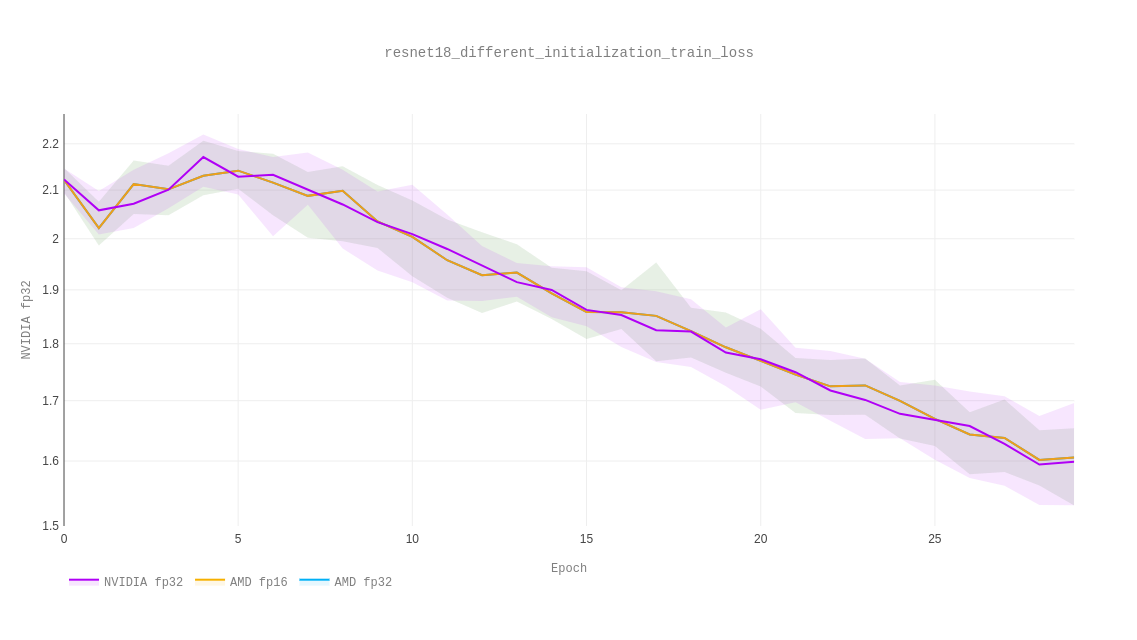
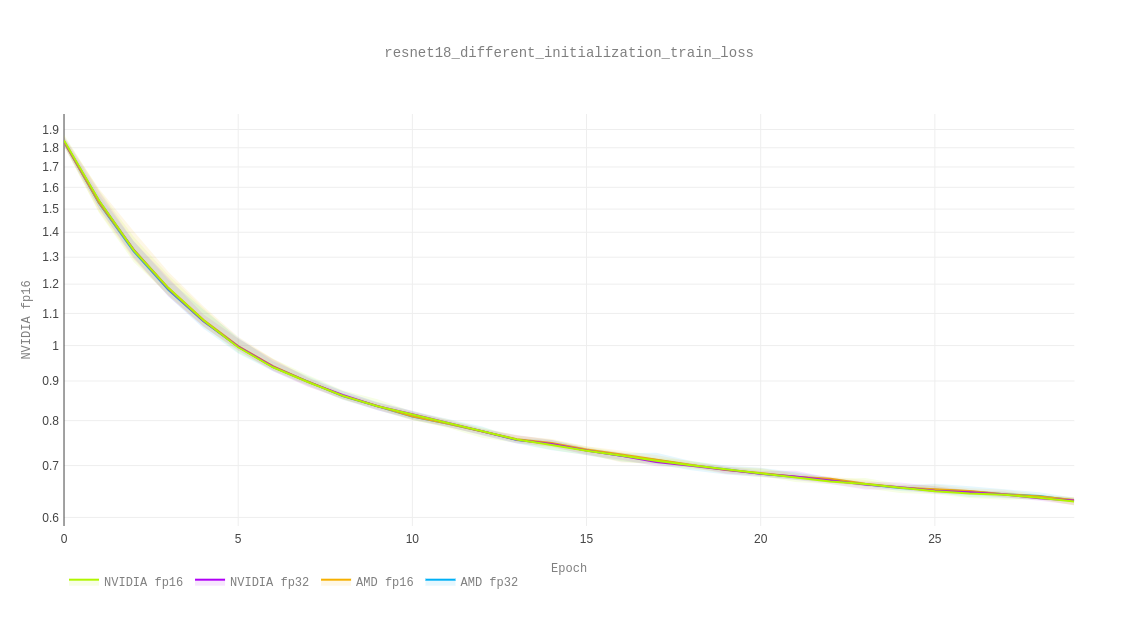
finished graph

diff --git a/reproducibility/plot.py b/reproducibility/plot.py
@@ -5,6 +5,9 @@ import plotly.figure_factory as ff
 import plotly.graph_objs as go
 import plotly.io as pio
 from typing import List
+from plotly import tools
+import plotly.plotly as py
+
 from track.persistence.storage import LocalStorage, load_database
 
 
@@ -149,86 +152,87 @@ color_palette = [
     (256, 0, 176),   # 5
 ]
 
-metric = 'test_acc'
 
-for m, name in [('test_acc', 'Test Accuracy'), ('train_loss', 'Train Loss'), ('test_loss', 'Test Loss')]:
+def convnet():
+    for m, name in [('test_acc', 'Test Accuracy'), ('train_loss', 'Train Loss'), ('test_loss', 'Test Loss')]:
 
-    curves_2 = []
-    files = [
-        (f'{BASE}/results/amd_2.json', f'AMD fp32'),
-        (f'{BASE}/results/amd_fp16_2.json', f'AMD fp16'),
-        (f'{BASE}/results/cpu_2.json', f'CPU fp32'),
-        (f'{BASE}/results/nvidia_2.json', f'NVIDIA fp32'),
-        (f'{BASE}/results/nvidia_p100_fp16_2.json', f'NVIDIA fp16')
-    ]
+        curves_2 = []
+        files = [
+            (f'{BASE}/results/amd_2.json', f'AMD fp32'),
+            (f'{BASE}/results/amd_fp16_2.json', f'AMD fp16'),
+            (f'{BASE}/results/cpu_2.json', f'CPU fp32'),
+            (f'{BASE}/results/nvidia_2.json', f'NVIDIA fp32'),
+            (f'{BASE}/results/nvidia_p100_fp16_2.json', f'NVIDIA fp16')
+        ]
 
-    for i, (file, name) in enumerate(files):
-        curves_2.append(get_curve_with_error(file, name, m, color_palette[i]))
+        for i, (file, name) in enumerate(files):
+            curves_2.append(get_curve_with_error(file, name, m, color_palette[i]))
 
-    plot_lines(
-        curves_2,
-        graph_name=f'different_initialization_{m}',
-        y_name=name,
-        folder=f'{BASE}/graphs'
-    )
+        plot_lines(
+            curves_2,
+            graph_name=f'different_initialization_{m}',
+            y_name=name,
+            folder=f'{BASE}/graphs'
+        )
 
-    curves_1 = []
-    files = [
-        (f'{BASE}/results/amd_1.json', f'AMD fp32'),
-        (f'{BASE}/results/amd_fp16_1.json', f'AMD fp16'),
-        (f'{BASE}/results/cpu_1.json', f'CPU fp32'),
-        (f'{BASE}/results/nvidia_1.json', f'NVIDIA fp32'),
-        (f'{BASE}/results/nvidia_p100_fp16_1.json', f'NVIDIA fp16')
-    ]
+        curves_1 = []
+        files = [
+            (f'{BASE}/results/amd_1.json', f'AMD fp32'),
+            (f'{BASE}/results/amd_fp16_1.json', f'AMD fp16'),
+            (f'{BASE}/results/cpu_1.json', f'CPU fp32'),
+            (f'{BASE}/results/nvidia_1.json', f'NVIDIA fp32'),
+            (f'{BASE}/results/nvidia_p100_fp16_1.json', f'NVIDIA fp16')
+        ]
 
-    for i, (file, name) in enumerate(files):
-        curves_1.append(get_curve_with_error(file, name, m, color_palette[i]))
+        for i, (file, name) in enumerate(files):
+            curves_1.append(get_curve_with_error(file, name, m, color_palette[i]))
 
-    plot_lines(
-        curves_1,
-        graph_name=f'same_initialization_{m}',
-        y_name=name,
-        folder=f'{BASE}/graphs'
-    )
-
-
-for m, name in [('test_acc', 'Test Accuracy'), ('train_loss', 'Train Loss'), ('test_loss', 'Test Loss')]:
-
-    curves_2 = []
-    files = [
-        (f'{BASE}/results/resnet18_amd_2.json', f'AMD fp32'),
-        (f'{BASE}/results/resnet18_amd_2.json', f'AMD fp16'),
-        (f'{BASE}/results/resnet18_nvidia_2.json', f'NVIDIA fp32'),
-        # (f'{BASE}/results/nvidia_p100_fp16_2.json', f'NVIDIA fp16')
-    ]
-
-    for i, (file, name) in enumerate(files):
-        curves_2.append(get_curve_with_error(file, name, m, color_palette[i]))
-
-    plot_lines(
-        curves_2,
-        graph_name=f'resnet18_different_initialization_{m}',
-        y_name=name,
-        folder=f'{BASE}/graphs'
-    )
-
-    curves_1 = []
-    files = [
-        (f'{BASE}/results/resnet18_amd_1.json', f'AMD fp32'),
-        (f'{BASE}/results/resnet18_amd_fp16_1.json', f'AMD fp16'),
-        (f'{BASE}/results/resnet18_nvidia_1.json', f'NVIDIA fp32'),
-        (f'{BASE}/results/resnet18_nvidia_fp16_1.json', f'NVIDIA fp16')
-    ]
-
-    for i, (file, name) in enumerate(files):
-        curves_1.append(get_curve_with_error(file, name, m, color_palette[i]))
-
-    plot_lines(
-        curves_1,
-        graph_name=f'resnet18_same_initialization_{m}',
-        y_name=name,
-        folder=f'{BASE}/graphs'
-    )
+        plot_lines(
+            curves_1,
+            graph_name=f'same_initialization_{m}',
+            y_name=name,
+            folder=f'{BASE}/graphs'
+        )
 
 
+def plot(model):
+    for m, name in [('test_acc', 'Test Accuracy'), ('train_loss', 'Train Loss'), ('test_loss', 'Test Loss')]:
 
+        curves_2 = []
+        files = [
+            (f'{BASE}/results/{model}_amd_fp32_2.json', f'AMD fp32'),
+            (f'{BASE}/results/{model}_amd_fp16_2.json', f'AMD fp16'),
+            (f'{BASE}/results/{model}_nvidia_fp32_2.json', f'NVIDIA fp32'),
+            (f'{BASE}/results/{model}_nvidia_fp16_2.json', f'NVIDIA fp16')
+        ]
+
+        for i, (file, name) in enumerate(files):
+            curves_2.append(get_curve_with_error(file, name, m, color_palette[i]))
+
+        plot_lines(
+            curves_2,
+            graph_name=f'resnet18_cifar_different_initialization_{m}',
+            y_name=name,
+            folder=f'{BASE}/graphs'
+        )
+
+        curves_1 = []
+        files = [
+            (f'{BASE}/results/{model}_amd_fp32_1.json', f'AMD fp32'),
+            (f'{BASE}/results/{model}_amd_fp16_1.json', f'AMD fp16'),
+            (f'{BASE}/results/{model}_nvidia_fp32_1.json', f'NVIDIA fp32'),
+            (f'{BASE}/results/{model}_nvidia_fp16_1.json', f'NVIDIA fp16')
+        ]
+
+        for i, (file, name) in enumerate(files):
+            curves_1.append(get_curve_with_error(file, name, m, color_palette[i]))
+
+        plot_lines(
+            curves_1,
+            graph_name=f'resnet18_cifar_same_initialization_{m}',
+            y_name=name,
+            folder=f'{BASE}/graphs'
+        )
+
+
+plot(model='resnet18_cifar')
